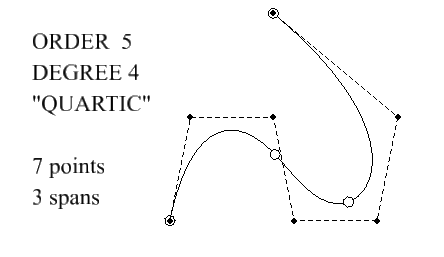
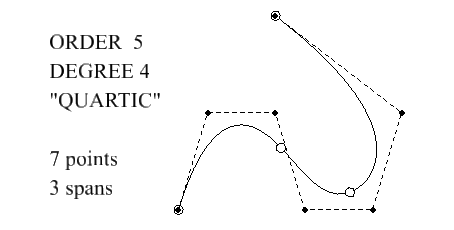
bspline docs.

diff --git a/core/geometry/src/test/BezierCurve.test.ts b/core/geometry/src/test/BezierCurve.test.ts
@@ -149,7 +149,7 @@ describe("BsplineCurve", () => {
   it.only("BsplineGrid", () => {
     const ck = new Checker();
     const geometry: GeometryQuery[] = [];
-    const a = 2.0;
+    const a = 3.0;
     const controlPoints: Point3d[] = [
       Point3d.create(0, 0, 0),
       Point3d.create(a, 10, 0),
@@ -167,11 +167,13 @@ describe("BsplineCurve", () => {
     const tickLength = 0.5;
     const setbackDistance = 0.5;
     GeometryCoreTestIO.captureGeometry(geometry, LineString3d.create(controlPoints), x0, y0);
-    for (const order of [2, 3, 4, 5]) {
+    for (const order of [3, 2, 3, 4, 5]) {
       x0 += dx;
       y0 = 0.0;
       const y1 = y0 + 2 * dy;
       const y2 = y0 + 1 * dy;
+      const y3 = y0 + 3 * dy;
+      const y4 = y3;
       // Output the full bspline with tic marks at the knot breaks
       const bcurve = BSplineCurve3d.createUniformKnots(controlPoints, order)!;
       GeometryCoreTestIO.captureGeometry(geometry, bcurve.clone(), x0, y0);
@@ -199,6 +201,18 @@ describe("BsplineCurve", () => {
         if (bezierIndex === 0)
           GeometryCoreTestIO.createAndCaptureXYCircle(geometry, bezier.fractionToPoint(0.0), setbackDistance, x0, y2);
         GeometryCoreTestIO.createAndCaptureXYCircle(geometry, bezier.fractionToPoint(1.0), setbackDistance, x0, y2);
+        // make sure partialClones overlap original  . . .
+        const g0 = 0.2342345;
+        const g1 = 0.82342367;
+        GeometryCoreTestIO.captureGeometry(geometry, bezier.clone()!, x0, y3);
+
+        const bezier4 = bezier.clonePartialCurve(g0, 1.0)!;
+        const bezier5 = bezier4.clonePartialCurve(0.0, (g1 - g0) / (1 - g0))!;  // Remark:  This uses the opposite left/right order of what happen in clone partial.  (Same result expected)
+        const bezier6 = bezier.clonePartialCurve(g0, g1)!;
+        ck.testTrue(bezier5.isAlmostEqual(bezier6), "bezier subdivision");  // wow, math is right.
+        GeometryCoreTestIO.captureGeometry(geometry, bezier4, x0, y4);
+        GeometryCoreTestIO.captureGeometry(geometry, bezier5, x0, y4);
+        GeometryCoreTestIO.captureGeometry(geometry, bezier6, x0, y4);
         bezierIndex++;
       }
     }

diff --git a/core/geometry/src/bspline/Bezier1dNd.ts b/core/geometry/src/bspline/Bezier1dNd.ts
@@ -278,6 +278,8 @@ export class Bezier1dNd {
    * @returns false if fraction is 0 -- no changes applied.
    */
   public subdivideInPlaceKeepLeft(fraction: number): boolean {
+    if (Geometry.isAlmostEqualNumber(fraction, 1.0))
+      return true;
     if (Geometry.isAlmostEqualNumber(fraction, 0.0))
       return false;
     const g = 1.0 - fraction;   // interpolations will pull towards right indices
@@ -297,11 +299,13 @@ export class Bezier1dNd {
    */
   public subdivideInPlaceKeepRight(fraction: number): boolean {
     if (Geometry.isAlmostEqualNumber(fraction, 0.0))
+      return true;
+    if (Geometry.isAlmostEqualNumber(fraction, 1.0))
       return false;
     const order = this.order;
     for (let level = 1; level < order; level++) {
-      for (let i1 = 1; i1 < order; i1++)
-        this.interpolatePoleInPlace(i1 - 1, fraction, i1);   // leave updates to left.
+      for (let i0 = 0; i0 + level < order; i0++)
+        this.interpolatePoleInPlace(i0, fraction, i0 + 1);   // leave updates to left.
     }
     return true;
   }
